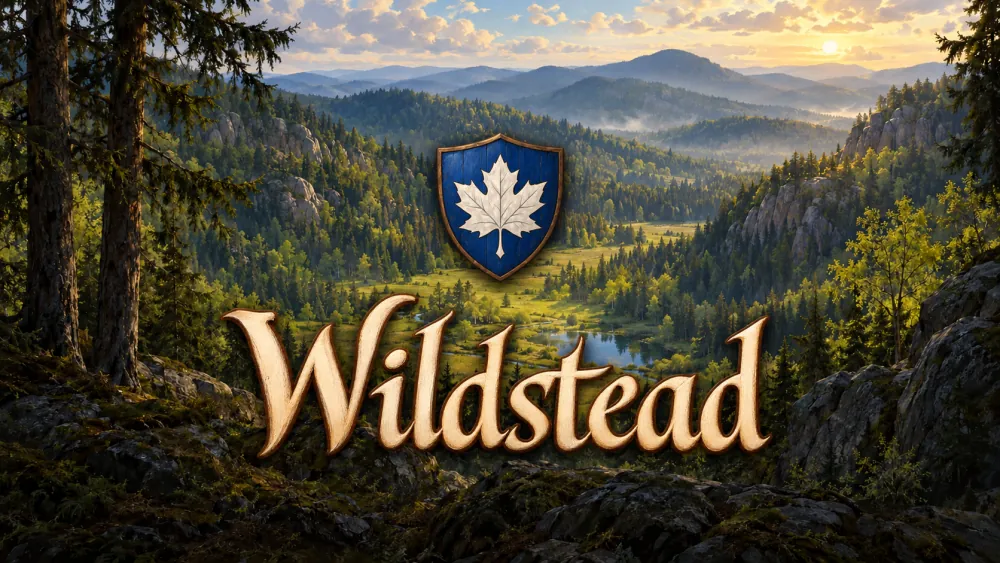
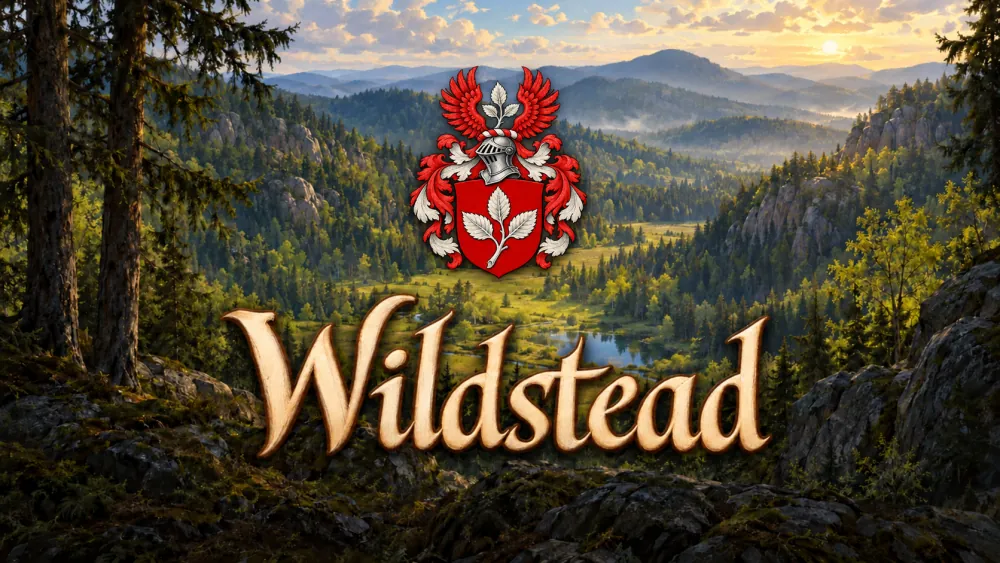
Vyměnit znak za rodový erb Habřinů

diff --git a/README.md b/README.md
@@ -1,4 +1,4 @@
-![Wildstead — údolí z herního úvodu s logem a znakem](media/wildstead-header.webp)
+![Wildstead — údolí z herního úvodu s logem a erbem rodu z Habřiny](media/wildstead-header.webp)
 
 <h1 align="center">Přežij první noc. Vypěstuj si budoucnost.</h1>
 
